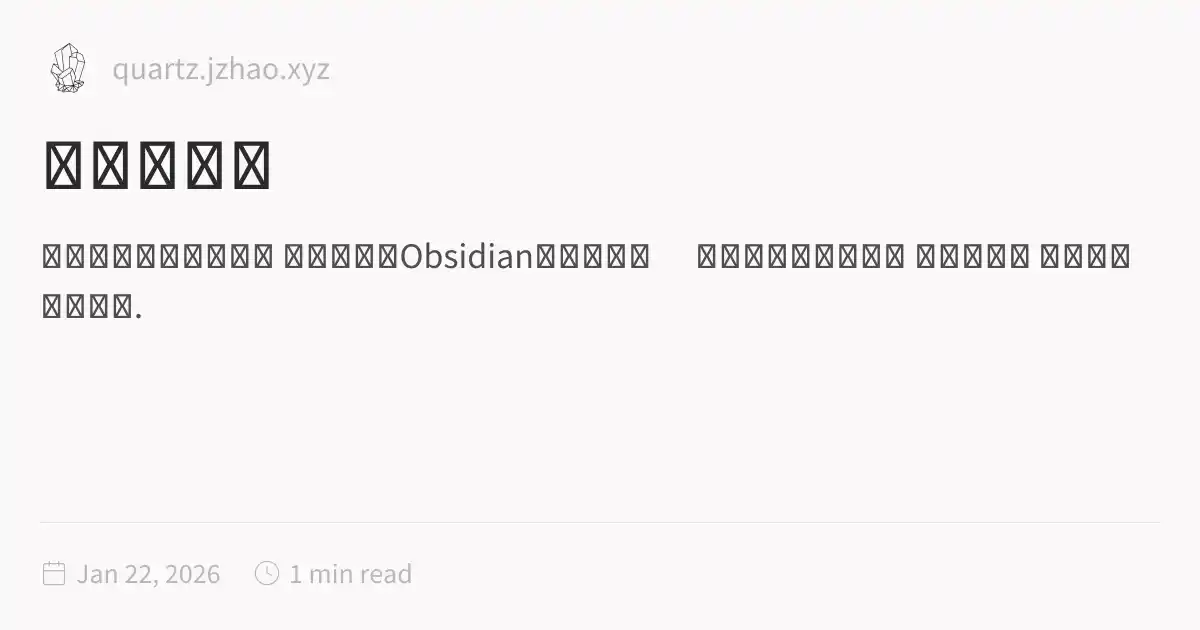
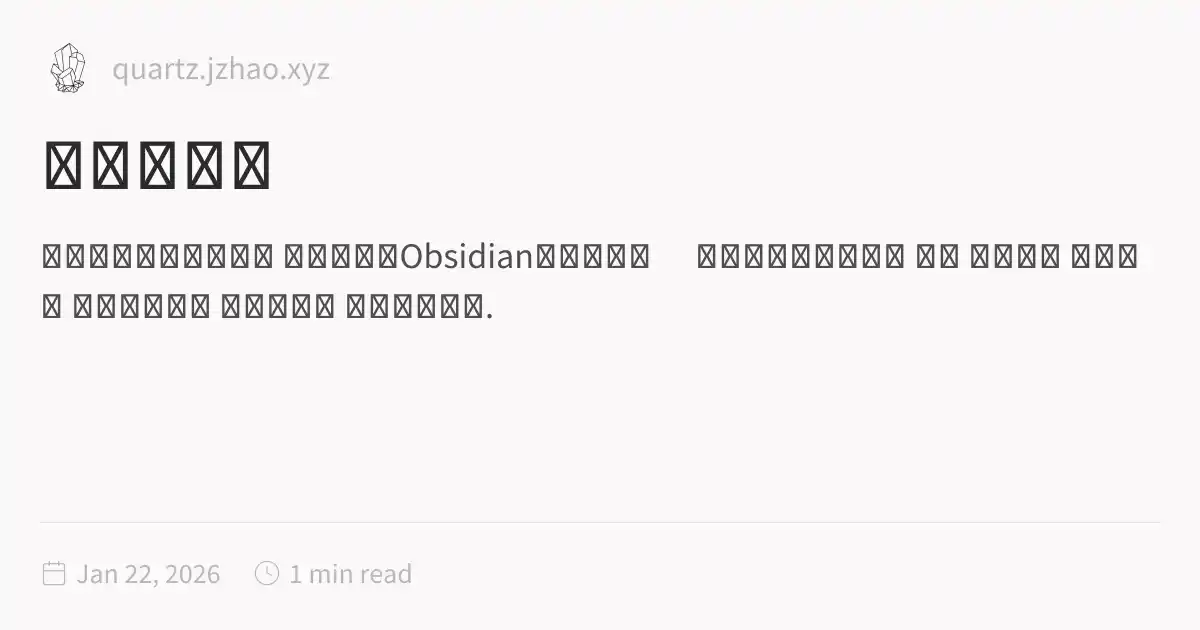
deploy: lunshi2022/quartz-blog@2883f80e3366005848902222647dba8f0e585a0b

Changed region(s): [[0.0308, 0.4524, 0.4008, 0.5127], [0.8017, 0.3619, 0.9558, 0.4222]]

diff --git a/index.html b/index.html
@@ -1,5 +1,5 @@
 <!DOCTYPE html>
-<html lang="en" dir="ltr"><head><title>我的知识库</title><meta charset="utf-8"/><link rel="preconnect" href="https://fonts.googleapis.com"/><link rel="preconnect" href="https://fonts.gstatic.com"/><link rel="stylesheet" href="https://fonts.googleapis.com/css2?family=Schibsted Grotesk:wght@400;700&amp;family=Source Sans Pro:ital,wght@0,400;0,600;1,400;1,600&amp;family=IBM Plex Mono:wght@400;600&amp;display=swap"/><link rel="preconnect" href="https://cdnjs.cloudflare.com" crossorigin="anonymous"/><meta name="viewport" content="width=device-width, initial-scale=1.0"/><meta name="og:site_name" content="Quartz 4"/><meta property="og:title" content="我的知识库"/><meta property="og:type" content="website"/><meta name="twitter:card" content="summary_large_image"/><meta name="twitter:title" content="我的知识库"/><meta name="twitter:description" content="欢迎来到我的数字花园 这里是我用Obsidian记录的一切。 啊是大家的合适就好 表示表示吧 哈哈哈哈 哈哈哈哈."/><meta property="og:description" content="欢迎来到我的数字花园 这里是我用Obsidian记录的一切。 啊是大家的合适就好 表示表示吧 哈哈哈哈 哈哈哈哈."/><meta property="og:image:alt" content="欢迎来到我的数字花园 这里是我用Obsidian记录的一切。 啊是大家的合适就好 表示表示吧 哈哈哈哈 哈哈哈哈."/><meta property="twitter:domain" content="quartz.jzhao.xyz"/><meta property="og:url" content="https://quartz.jzhao.xyz/index"/><meta property="twitter:url" content="https://quartz.jzhao.xyz/index"/><link rel="icon" href="./static/icon.png"/><meta name="description" content="欢迎来到我的数字花园 这里是我用Obsidian记录的一切。 啊是大家的合适就好 表示表示吧 哈哈哈哈 哈哈哈哈."/><meta name="generator" content="Quartz"/><link href="./index.css" rel="stylesheet" type="text/css" data-persist="true"/><style>.expand-button {
+<html lang="en" dir="ltr"><head><title>我的知识库</title><meta charset="utf-8"/><link rel="preconnect" href="https://fonts.googleapis.com"/><link rel="preconnect" href="https://fonts.gstatic.com"/><link rel="stylesheet" href="https://fonts.googleapis.com/css2?family=Schibsted Grotesk:wght@400;700&amp;family=Source Sans Pro:ital,wght@0,400;0,600;1,400;1,600&amp;family=IBM Plex Mono:wght@400;600&amp;display=swap"/><link rel="preconnect" href="https://cdnjs.cloudflare.com" crossorigin="anonymous"/><meta name="viewport" content="width=device-width, initial-scale=1.0"/><meta name="og:site_name" content="Quartz 4"/><meta property="og:title" content="我的知识库"/><meta property="og:type" content="website"/><meta name="twitter:card" content="summary_large_image"/><meta name="twitter:title" content="我的知识库"/><meta name="twitter:description" content="欢迎来到我的数字花园 这里是我用Obsidian记录的一切。 啊是大家的合适就好 表示 哈哈哈哈 哈哈哈哈 那就氨基酸的 爱说大话的 打啥电话就是."/><meta property="og:description" content="欢迎来到我的数字花园 这里是我用Obsidian记录的一切。 啊是大家的合适就好 表示 哈哈哈哈 哈哈哈哈 那就氨基酸的 爱说大话的 打啥电话就是."/><meta property="og:image:alt" content="欢迎来到我的数字花园 这里是我用Obsidian记录的一切。 啊是大家的合适就好 表示 哈哈哈哈 哈哈哈哈 那就氨基酸的 爱说大话的 打啥电话就是."/><meta property="twitter:domain" content="quartz.jzhao.xyz"/><meta property="og:url" content="https://quartz.jzhao.xyz/index"/><meta property="twitter:url" content="https://quartz.jzhao.xyz/index"/><link rel="icon" href="./static/icon.png"/><meta name="description" content="欢迎来到我的数字花园 这里是我用Obsidian记录的一切。 啊是大家的合适就好 表示 哈哈哈哈 哈哈哈哈 那就氨基酸的 爱说大话的 打啥电话就是."/><meta name="generator" content="Quartz"/><link href="./index.css" rel="stylesheet" type="text/css" data-persist="true"/><style>.expand-button {
   position: absolute;
   display: flex;
   float: right;
@@ -115,12 +115,15 @@ pre:hover > .expand-button {
   padding: 0 12px;
   font-size: 14px;
 }
[2 lines of base64/hex data omitted]
 <p>这里是我用Obsidian记录的一切。</p>
 <p>啊是大家的合适就好
-表示表示吧
+表示
 哈哈哈哈
-哈哈哈哈</p></article><hr/><div class="page-footer"></div></div><div class="right sidebar"><div class="graph"><h3>Graph View</h3><div class="graph-outer"><div class="graph-container" data-cfg="{&quot;drag&quot;:true,&quot;zoom&quot;:true,&quot;depth&quot;:1,&quot;scale&quot;:1.1,&quot;repelForce&quot;:0.5,&quot;centerForce&quot;:0.3,&quot;linkDistance&quot;:30,&quot;fontSize&quot;:0.6,&quot;opacityScale&quot;:1,&quot;showTags&quot;:true,&quot;removeTags&quot;:[],&quot;focusOnHover&quot;:false,&quot;enableRadial&quot;:false}"></div><button class="global-graph-icon" aria-label="Global Graph"><svg version="1.1" xmlns="http://www.w3.org/2000/svg" xmlns:xlink="http://www.w3.org/1999/xlink" x="0px" y="0px" viewBox="0 0 55 55" fill="currentColor" xml:space="preserve"><path d="M49,0c-3.309,0-6,2.691-6,6c0,1.035,0.263,2.009,0.726,2.86l-9.829,9.829C32.542,17.634,30.846,17,29,17
+哈哈哈哈</p>
+<p>那就氨基酸的
+爱说大话的
+打啥电话就是</p></article><hr/><div class="page-footer"></div></div><div class="right sidebar"><div class="graph"><h3>Graph View</h3><div class="graph-outer"><div class="graph-container" data-cfg="{&quot;drag&quot;:true,&quot;zoom&quot;:true,&quot;depth&quot;:1,&quot;scale&quot;:1.1,&quot;repelForce&quot;:0.5,&quot;centerForce&quot;:0.3,&quot;linkDistance&quot;:30,&quot;fontSize&quot;:0.6,&quot;opacityScale&quot;:1,&quot;showTags&quot;:true,&quot;removeTags&quot;:[],&quot;focusOnHover&quot;:false,&quot;enableRadial&quot;:false}"></div><button class="global-graph-icon" aria-label="Global Graph"><svg version="1.1" xmlns="http://www.w3.org/2000/svg" xmlns:xlink="http://www.w3.org/1999/xlink" x="0px" y="0px" viewBox="0 0 55 55" fill="currentColor" xml:space="preserve"><path d="M49,0c-3.309,0-6,2.691-6,6c0,1.035,0.263,2.009,0.726,2.86l-9.829,9.829C32.542,17.634,30.846,17,29,17
                 s-3.542,0.634-4.898,1.688l-7.669-7.669C16.785,10.424,17,9.74,17,9c0-2.206-1.794-4-4-4S9,6.794,9,9s1.794,4,4,4
                 c0.74,0,1.424-0.215,2.019-0.567l7.669,7.669C21.634,21.458,21,23.154,21,25s0.634,3.542,1.688,4.897L10.024,42.562
                 C8.958,41.595,7.549,41,6,41c-3.309,0-6,2.691-6,6s2.691,6,6,6s6-2.691,6-6c0-1.035-0.263-2.009-0.726-2.86l12.829-12.829

diff --git a/知道吗.html b/知道吗.html
@@ -115,7 +115,7 @@ pre:hover > .expand-button {
   padding: 0 12px;
   font-size: 14px;
 }
[2 lines of base64/hex data omitted]
 <p>撒旦婚纱和大家</p></article><hr/><div class="page-footer"></div></div><div class="right sidebar"><div class="graph"><h3>Graph View</h3><div class="graph-outer"><div class="graph-container" data-cfg="{&quot;drag&quot;:true,&quot;zoom&quot;:true,&quot;depth&quot;:1,&quot;scale&quot;:1.1,&quot;repelForce&quot;:0.5,&quot;centerForce&quot;:0.3,&quot;linkDistance&quot;:30,&quot;fontSize&quot;:0.6,&quot;opacityScale&quot;:1,&quot;showTags&quot;:true,&quot;removeTags&quot;:[],&quot;focusOnHover&quot;:false,&quot;enableRadial&quot;:false}"></div><button class="global-graph-icon" aria-label="Global Graph"><svg version="1.1" xmlns="http://www.w3.org/2000/svg" xmlns:xlink="http://www.w3.org/1999/xlink" x="0px" y="0px" viewBox="0 0 55 55" fill="currentColor" xml:space="preserve"><path d="M49,0c-3.309,0-6,2.691-6,6c0,1.035,0.263,2.009,0.726,2.86l-9.829,9.829C32.542,17.634,30.846,17,29,17
                 s-3.542,0.634-4.898,1.688l-7.669-7.669C16.785,10.424,17,9.74,17,9c0-2.206-1.794-4-4-4S9,6.794,9,9s1.794,4,4,4
                 c0.74,0,1.424-0.215,2.019-0.567l7.669,7.669C21.634,21.458,21,23.154,21,25s0.634,3.542,1.688,4.897L10.024,42.562

diff --git a/哈知道吗.html b/哈知道吗.html
@@ -1,0 +1,130 @@
+<!DOCTYPE html>
+<html lang="en" dir="ltr"><head><title>哈知道吗</title><meta charset="utf-8"/><link rel="preconnect" href="https://fonts.googleapis.com"/><link rel="preconnect" href="https://fonts.gstatic.com"/><link rel="stylesheet" href="https://fonts.googleapis.com/css2?family=Schibsted Grotesk:wght@400;700&amp;family=Source Sans Pro:ital,wght@0,400;0,600;1,400;1,600&amp;family=IBM Plex Mono:wght@400;600&amp;display=swap"/><link rel="preconnect" href="https://cdnjs.cloudflare.com" crossorigin="anonymous"/><meta name="viewport" content="width=device-width, initial-scale=1.0"/><meta name="og:site_name" content="Quartz 4"/><meta property="og:title" content="哈知道吗"/><meta property="og:type" content="website"/><meta name="twitter:card" content="summary_large_image"/><meta name="twitter:title" content="哈知道吗"/><meta name="twitter:description" content/><meta property="og:description" content/><meta property="og:image:alt" content/><meta property="twitter:domain" content="quartz.jzhao.xyz"/><meta property="og:url" content="https://quartz.jzhao.xyz/哈知道吗"/><meta property="twitter:url" content="https://quartz.jzhao.xyz/哈知道吗"/><link rel="icon" href="./static/icon.png"/><meta name="description" content/><meta name="generator" content="Quartz"/><link href="./index.css" rel="stylesheet" type="text/css" data-persist="true"/><style>.expand-button {
+  position: absolute;
+  display: flex;
+  float: right;
+  padding: 0.4rem;
+  margin: 0.3rem;
+  right: 0;
+  color: var(--gray);
+  border-color: var(--dark);
+  background-color: var(--light);
+  border: 1px solid;
+  border-radius: 5px;
+  opacity: 0;
+  transition: 0.2s;
+}
+.expand-button > svg {
+  fill: var(--light);
+  filter: contrast(0.3);
+}
+.expand-button:hover {
+  cursor: pointer;
+  border-color: var(--secondary);
+}
+.expand-button:focus {
+  outline: 0;
+}
+
+pre:hover > .expand-button {
+  opacity: 1;
+  transition: 0.2s;
+}
+
+#mermaid-container {
+  position: fixed;
+  contain: layout;
+  z-index: 999;
+  left: 0;
+  top: 0;
+  width: 100vw;
+  height: 100vh;
+  overflow: hidden;
+  display: none;
+  backdrop-filter: blur(4px);
+  background: rgba(0, 0, 0, 0.5);
+}
+#mermaid-container.active {
+  display: inline-block;
+}
+#mermaid-container > #mermaid-space {
+  border: 1px solid var(--lightgray);
+  background-color: var(--light);
+  border-radius: 5px;
+  position: fixed;
+  top: 50%;
+  left: 50%;
+  transform: translate(-50%, -50%);
+  height: 80vh;
+  width: 80vw;
+  overflow: hidden;
+}
+#mermaid-container > #mermaid-space > .mermaid-content {
+  position: relative;
+  transform-origin: 0 0;
+  transition: transform 0.1s ease;
+  overflow: visible;
+  min-height: 200px;
+  min-width: 200px;
+}
+#mermaid-container > #mermaid-space > .mermaid-content pre {
+  margin: 0;
+  border: none;
+}
+#mermaid-container > #mermaid-space > .mermaid-content svg {
+  max-width: none;
+  height: auto;
+}
+#mermaid-container > #mermaid-space > .mermaid-controls {
+  position: absolute;
+  bottom: 20px;
+  right: 20px;
+  display: flex;
+  gap: 8px;
+  padding: 8px;
+  background: var(--light);
+  border: 1px solid var(--lightgray);
+  border-radius: 6px;
+  box-shadow: 0 2px 4px rgba(0, 0, 0, 0.1);
+  z-index: 2;
+}
+#mermaid-container > #mermaid-space > .mermaid-controls .mermaid-control-button {
+  display: flex;
+  align-items: center;
+  justify-content: center;
+  width: 32px;
+  height: 32px;
+  padding: 0;
+  border: 1px solid var(--lightgray);
+  background: var(--light);
+  color: var(--dark);
+  border-radius: 4px;
+  cursor: pointer;
+  font-size: 16px;
+  font-family: var(--bodyFont);
+  transition: all 0.2s ease;
+}
+#mermaid-container > #mermaid-space > .mermaid-controls .mermaid-control-button:hover {
+  background: var(--lightgray);
+}
+#mermaid-container > #mermaid-space > .mermaid-controls .mermaid-control-button:active {
+  transform: translateY(1px);
+}
+#mermaid-container > #mermaid-space > .mermaid-controls .mermaid-control-button:nth-child(2) {
+  width: auto;
+  padding: 0 12px;
+  font-size: 14px;
+}
[1 lines of base64/hex data omitted]
+                s-3.542,0.634-4.898,1.688l-7.669-7.669C16.785,10.424,17,9.74,17,9c0-2.206-1.794-4-4-4S9,6.794,9,9s1.794,4,4,4
+                c0.74,0,1.424-0.215,2.019-0.567l7.669,7.669C21.634,21.458,21,23.154,21,25s0.634,3.542,1.688,4.897L10.024,42.562
+                C8.958,41.595,7.549,41,6,41c-3.309,0-6,2.691-6,6s2.691,6,6,6s6-2.691,6-6c0-1.035-0.263-2.009-0.726-2.86l12.829-12.829
+                c1.106,0.86,2.44,1.436,3.898,1.619v10.16c-2.833,0.478-5,2.942-5,5.91c0,3.309,2.691,6,6,6s6-2.691,6-6c0-2.967-2.167-5.431-5-5.91
+                v-10.16c1.458-0.183,2.792-0.759,3.898-1.619l7.669,7.669C41.215,39.576,41,40.26,41,41c0,2.206,1.794,4,4,4s4-1.794,4-4
+                s-1.794-4-4-4c-0.74,0-1.424,0.215-2.019,0.567l-7.669-7.669C36.366,28.542,37,26.846,37,25s-0.634-3.542-1.688-4.897l9.665-9.665
+                C46.042,11.405,47.451,12,49,12c3.309,0,6-2.691,6-6S52.309,0,49,0z M11,9c0-1.103,0.897-2,2-2s2,0.897,2,2s-0.897,2-2,2
+                S11,10.103,11,9z M6,51c-2.206,0-4-1.794-4-4s1.794-4,4-4s4,1.794,4,4S8.206,51,6,51z M33,49c0,2.206-1.794,4-4,4s-4-1.794-4-4
+                s1.794-4,4-4S33,46.794,33,49z M29,31c-3.309,0-6-2.691-6-6s2.691-6,6-6s6,2.691,6,6S32.309,31,29,31z M47,41c0,1.103-0.897,2-2,2
+                s-2-0.897-2-2s0.897-2,2-2S47,39.897,47,41z M49,10c-2.206,0-4-1.794-4-4s1.794-4,4-4s4,1.794,4,4S51.206,10,49,10z"></path></svg></button></div><div class="global-graph-outer"><div class="global-graph-container" data-cfg="{&quot;drag&quot;:true,&quot;zoom&quot;:true,&quot;depth&quot;:-1,&quot;scale&quot;:0.9,&quot;repelForce&quot;:0.5,&quot;centerForce&quot;:0.2,&quot;linkDistance&quot;:30,&quot;fontSize&quot;:0.6,&quot;opacityScale&quot;:1,&quot;showTags&quot;:true,&quot;removeTags&quot;:[],&quot;focusOnHover&quot;:true,&quot;enableRadial&quot;:true}"></div></div></div></div><footer class><p>Created with <a href="https://quartz.jzhao.xyz/">Quartz v4.5.2</a> © 2026</p><ul><li><a href="https://github.com/jackyzha0/quartz">GitHub</a></li><li><a href="https://discord.gg/cRFFHYye7t">Discord Community</a></li></ul></footer></div></div></body><script type="application/javascript" data-persist="true">function n(){let t=this.parentElement;t.classList.toggle("is-collapsed");let e=t.getElementsByClassName("callout-content")[0];if(!e)return;let l=t.classList.contains("is-collapsed");e.style.gridTemplateRows=l?"0fr":"1fr"}function c(){let t=document.getElementsByClassName("callout is-collapsible");for(let e of t){let l=e.getElementsByClassName("callout-title")[0],s=e.getElementsByClassName("callout-content")[0];if(!l||!s)continue;l.addEventListener("click",n),window.addCleanup(()=>l.removeEventListener("click",n));let o=e.classList.contains("is-collapsed");s.style.gridTemplateRows=o?"0fr":"1fr"}}document.addEventListener("nav",c);
+</script><script type="module" data-persist="true">function E(a,e){if(!a)return;function t(o){o.target===this&&(o.preventDefault(),o.stopPropagation(),e())}function n(o){o.key.startsWith("Esc")&&(o.preventDefault(),e())}a?.addEventListener("click",t),window.addCleanup(()=>a?.removeEventListener("click",t)),document.addEventListener("keydown",n),window.addCleanup(()=>document.removeEventListener("keydown",n))}function f(a){for(;a.firstChild;)a.removeChild(a.firstChild)}var m=class{constructor(e,t){this.container=e;this.content=t;this.setupEventListeners(),this.setupNavigationControls(),this.resetTransform()}isDragging=!1;startPan={x:0,y:0};currentPan={x:0,y:0};scale=1;MIN_SCALE=.5;MAX_SCALE=3;cleanups=[];setupEventListeners(){let e=this.onMouseDown.bind(this),t=this.onMouseMove.bind(this),n=this.onMouseUp.bind(this),o=this.onTouchStart.bind(this),r=this.onTouchMove.bind(this),i=this.onTouchEnd.bind(this),s=this.resetTransform.bind(this);this.container.addEventListener("mousedown",e),document.addEventListener("mousemove",t),document.addEventListener("mouseup",n),this.container.addEventListener("touchstart",o,{passive:!1}),document.addEventListener("touchmove",r,{passive:!1}),document.addEventListener("touchend",i),window.addEventListener("resize",s),this.cleanups.push(()=>this.container.removeEventListener("mousedown",e),()=>document.removeEventListener("mousemove",t),()=>document.removeEventListener("mouseup",n),()=>this.container.removeEventListener("touchstart",o),()=>document.removeEventListener("touchmove",r),()=>document.removeEventListener("touchend",i),()=>window.removeEventListener("resize",s))}cleanup(){for(let e of this.cleanups)e()}setupNavigationControls(){let e=document.createElement("div");e.className="mermaid-controls";let t=this.createButton("+",()=>this.zoom(.1)),n=this.createButton("-",()=>this.zoom(-.1)),o=this.createButton("Reset",()=>this.resetTransform());e.appendChild(n),e.appendChild(o),e.appendChild(t),this.container.appendChild(e)}createButton(e,t){let n=document.createElement("button");return n.textContent=e,n.className="mermaid-control-button",n.addEventListener("click",t),window.addCleanup(()=>n.removeEventListener("click",t)),n}onMouseDown(e){e.button===0&&(this.isDragging=!0,this.startPan={x:e.clientX-this.currentPan.x,y:e.clientY-this.currentPan.y},this.container.style.cursor="grabbing")}onMouseMove(e){this.isDragging&&(e.preventDefault(),this.currentPan={x:e.clientX-this.startPan.x,y:e.clientY-this.startPan.y},this.updateTransform())}onMouseUp(){this.isDragging=!1,this.container.style.cursor="grab"}onTouchStart(e){if(e.touches.length!==1)return;this.isDragging=!0;let t=e.touches[0];this.startPan={x:t.clientX-this.currentPan.x,y:t.clientY-this.currentPan.y}}onTouchMove(e){if(!this.isDragging||e.touches.length!==1)return;e.preventDefault();let t=e.touches[0];this.currentPan={x:t.clientX-this.startPan.x,y:t.clientY-this.startPan.y},this.updateTransform()}onTouchEnd(){this.isDragging=!1}zoom(e){let t=Math.min(Math.max(this.scale+e,this.MIN_SCALE),this.MAX_SCALE),n=this.content.getBoundingClientRect(),o=n.width/2,r=n.height/2,i=t-this.scale;this.currentPan.x-=o*i,this.currentPan.y-=r*i,this.scale=t,this.updateTransform()}updateTransform(){this.content.style.transform=`translate(${this.currentPan.x}px, ${this.currentPan.y}px) scale(${this.scale})`}resetTransform(){let t=this.content.querySelector("svg").getBoundingClientRect(),n=t.width/this.scale,o=t.height/this.scale;this.scale=1,this.currentPan={x:(this.container.clientWidth-n)/2,y:(this.container.clientHeight-o)/2},this.updateTransform()}},T=["--secondary","--tertiary","--gray","--light","--lightgray","--highlight","--dark","--darkgray","--codeFont"],y;document.addEventListener("nav",async()=>{let e=document.querySelector(".center").querySelectorAll("code.mermaid");if(e.length===0)return;y||=await import("https://cdnjs.cloudflare.com/ajax/libs/mermaid/11.4.0/mermaid.esm.min.mjs");let t=y.default,n=new WeakMap;for(let r of e)n.set(r,r.innerText);async function o(){for(let s of e){s.removeAttribute("data-processed");let c=n.get(s);c&&(s.innerHTML=c)}let r=T.reduce((s,c)=>(s[c]=window.getComputedStyle(document.documentElement).getPropertyValue(c),s),{}),i=document.documentElement.getAttribute("saved-theme")==="dark";t.initialize({startOnLoad:!1,securityLevel:"loose",theme:i?"dark":"base",themeVariables:{fontFamily:r["--codeFont"],primaryColor:r["--light"],primaryTextColor:r["--darkgray"],primaryBorderColor:r["--tertiary"],lineColor:r["--darkgray"],secondaryColor:r["--secondary"],tertiaryColor:r["--tertiary"],clusterBkg:r["--light"],edgeLabelBackground:r["--highlight"]}}),await t.run({nodes:e})}await o(),document.addEventListener("themechange",o),window.addCleanup(()=>document.removeEventListener("themechange",o));for(let r=0;r<e.length;r++){let v=function(){let g=l.querySelector("#mermaid-space"),h=l.querySelector(".mermaid-content");if(!h)return;f(h);let w=i.querySelector("svg").cloneNode(!0);h.appendChild(w),l.classList.add("active"),g.style.cursor="grab",u=new m(g,h)},M=function(){l.classList.remove("active"),u?.cleanup(),u=null},i=e[r],s=i.parentElement,c=s.querySelector(".clipboard-button"),d=s.querySelector(".expand-button"),p=window.getComputedStyle(c),L=c.offsetWidth+parseFloat(p.marginLeft||"0")+parseFloat(p.marginRight||"0");d.style.right=`calc(${L}px + 0.3rem)`,s.prepend(d);let l=s.querySelector("#mermaid-container");if(!l)return;let u=null;d.addEventListener("click",v),E(l,M),window.addCleanup(()=>{u?.cleanup(),d.removeEventListener("click",v)})}});
+</script><script src="https://cdn.jsdelivr.net/npm/katex@0.16.11/dist/contrib/copy-tex.min.js" type="application/javascript" data-persist="true"></script><script src="./postscript.js" type="module" data-persist="true"></script></html>
